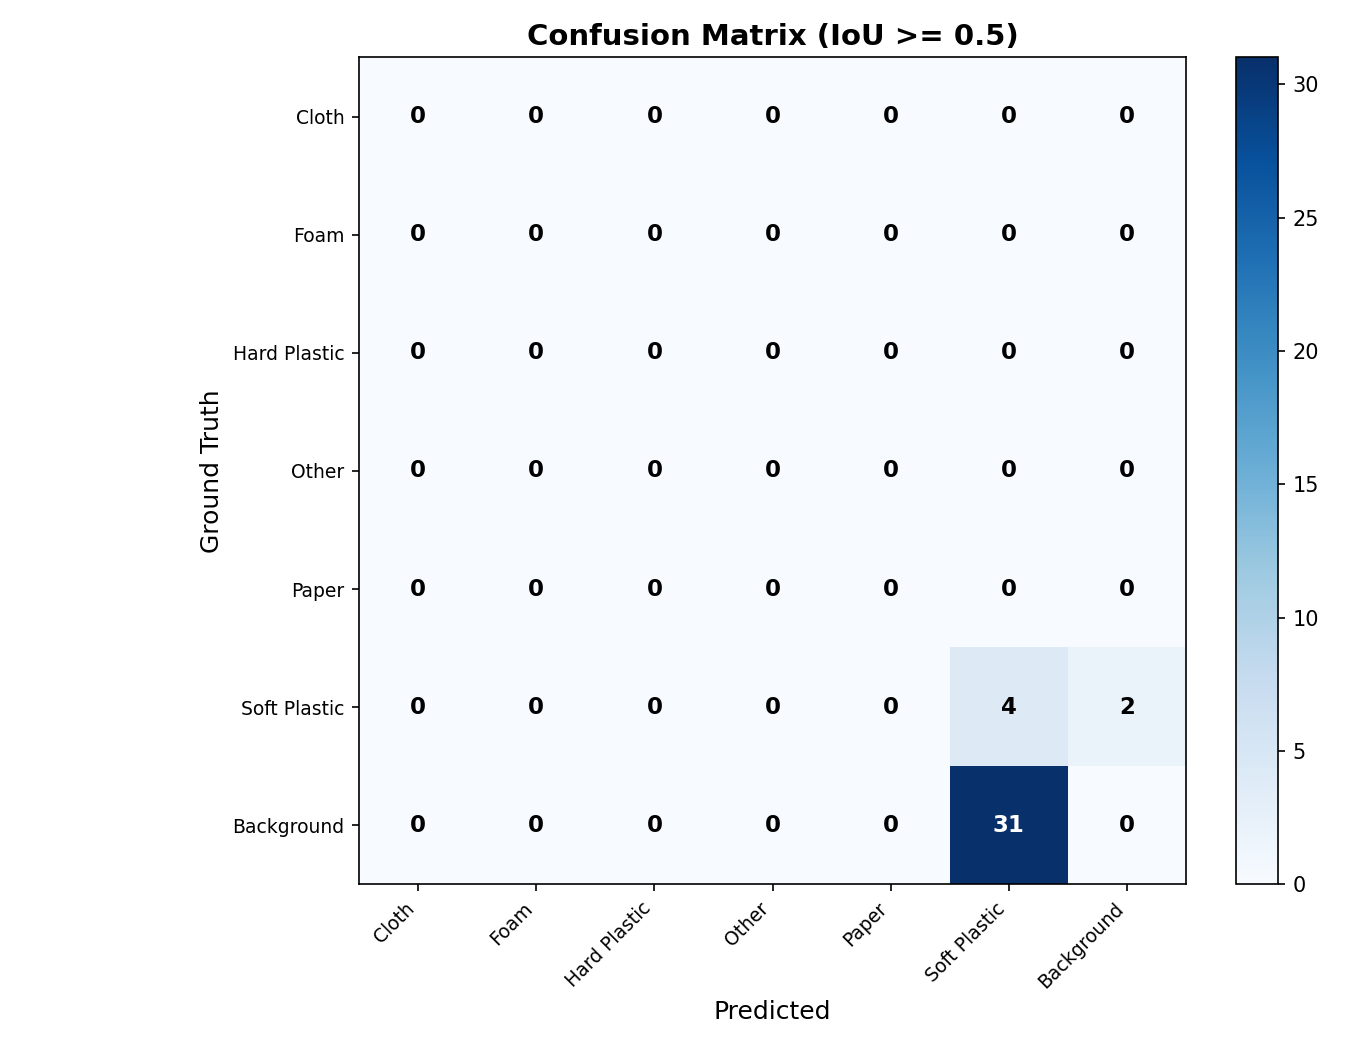
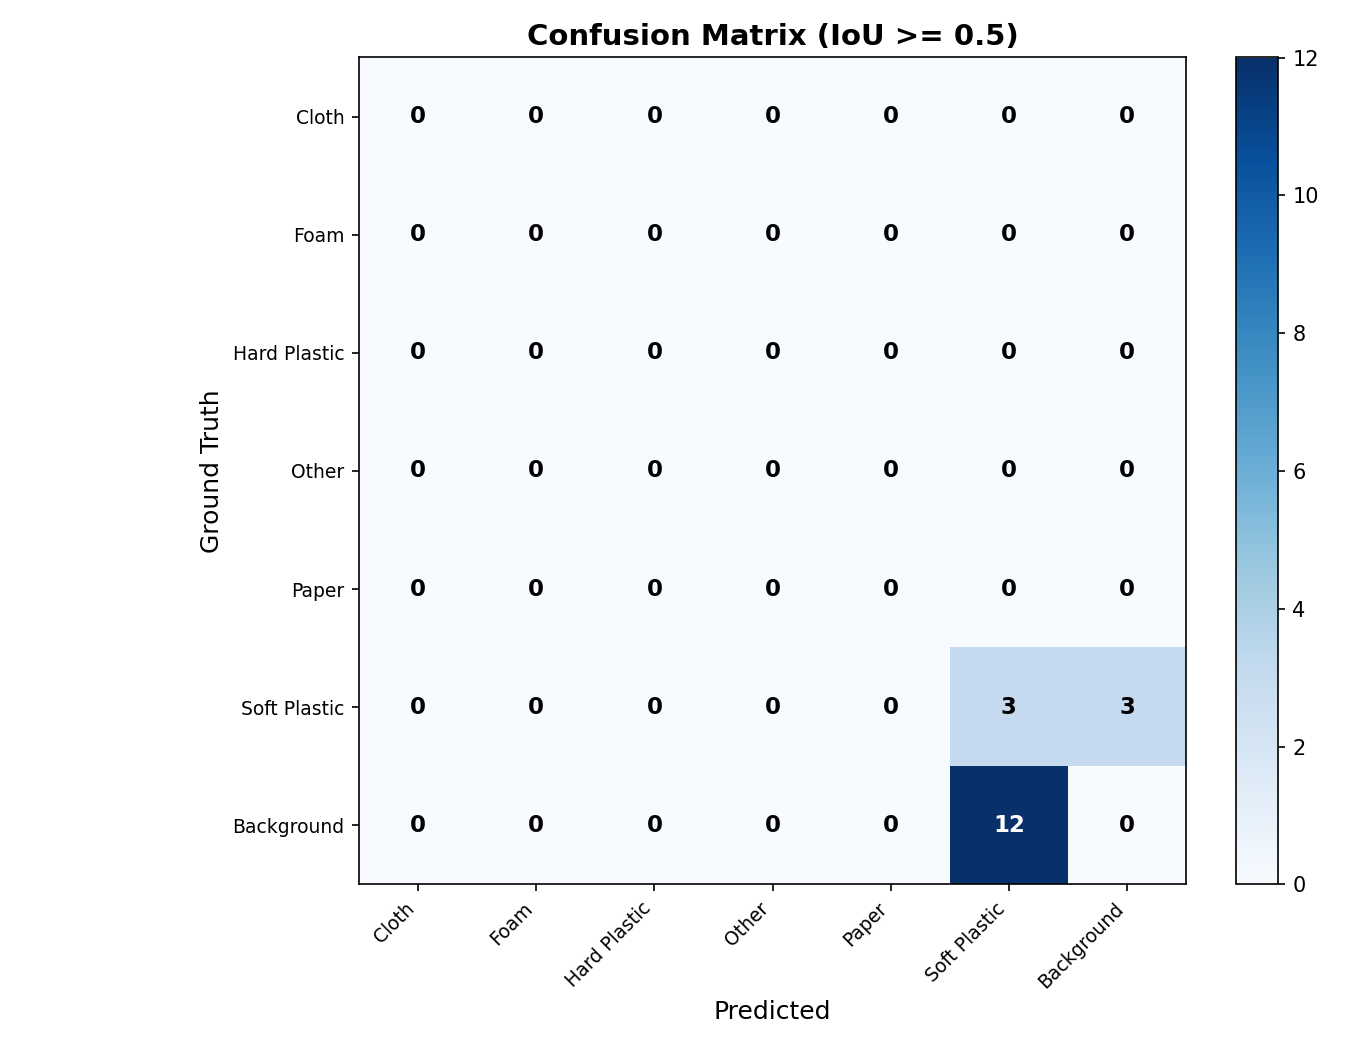
plot training data, check data, n adjust train.py code

diff --git a/plot_training.py b/plot_training.py
@@ -1,0 +1,189 @@
+"""
+plot_training.py
+Membuat grafik evaluasi training dari training_log.csv
+Hasil disimpan ke folder checkpoints/plots/
+"""
+
+import os
+import csv
+import matplotlib.pyplot as plt
+import matplotlib.gridspec as gridspec
+import numpy as np
+
+# ── Konfigurasi ──────────────────────────────────────────────────────────────
+LOG_PATH    = 'checkpoints/training_log.csv'
+OUTPUT_DIR  = 'checkpoints/plots'
+os.makedirs(OUTPUT_DIR, exist_ok=True)
+
+# ── Load data ─────────────────────────────────────────────────────────────────
+epochs, train_losses, val_losses, lrs = [], [], [], []
+
+with open(LOG_PATH, newline='') as f:
+    reader = csv.DictReader(f)
+    for row in reader:
+        epochs.append(int(row['epoch']))
+        train_losses.append(float(row['train_loss']))
+        val_losses.append(float(row['val_loss']))
+        lrs.append(float(row['lr']))
+
+epochs       = np.array(epochs)
+train_losses = np.array(train_losses)
+val_losses   = np.array(val_losses)
+lrs          = np.array(lrs)
+
+best_epoch    = epochs[np.argmin(val_losses)]
+best_val_loss = np.min(val_losses)
+
+# ── Style ─────────────────────────────────────────────────────────────────────
+plt.rcParams.update({
+    'font.family'     : 'DejaVu Sans',
+    'font.size'       : 11,
+    'axes.spines.top' : False,
+    'axes.spines.right': False,
+    'axes.grid'       : True,
+    'grid.alpha'      : 0.3,
+    'grid.linestyle'  : '--',
+})
+
+COLORS = {
+    'train' : '#4A90D9',
+    'val'   : '#E8724A',
+    'best'  : '#2ECC71',
+    'lr'    : '#9B59B6',
+    'gap'   : '#F5A623',
+}
+
+# ═══════════════════════════════════════════════════════════════════════════════
+# GRAFIK 1 — Training vs Validation Loss
+# ═══════════════════════════════════════════════════════════════════════════════
+fig, ax = plt.subplots(figsize=(10, 5))
+
+ax.plot(epochs, train_losses, color=COLORS['train'], lw=2.2, marker='o',
+        markersize=5, label='Train Loss')
+ax.plot(epochs, val_losses,   color=COLORS['val'],   lw=2.2, marker='s',
+        markersize=5, label='Validation Loss')
+
+# Highlight best
+ax.axvline(best_epoch, color=COLORS['best'], ls='--', lw=1.5,
+           label=f'Best Epoch ({best_epoch})  val_loss={best_val_loss:.4f}')
+ax.scatter([best_epoch], [best_val_loss], color=COLORS['best'], zorder=5, s=80)
+
+ax.set_xlabel('Epoch', fontsize=12)
+ax.set_ylabel('Loss', fontsize=12)
+ax.set_title('Training vs Validation Loss (Mask R-CNN)', fontsize=14, fontweight='bold')
+ax.legend(fontsize=10)
+ax.set_xlim(epochs[0] - 0.5, epochs[-1] + 0.5)
+
+plt.tight_layout()
+out1 = os.path.join(OUTPUT_DIR, '1_train_val_loss.png')
+plt.savefig(out1, dpi=150)
+plt.close()
+print(f'[OK] Disimpan: {out1}')
+
+
+# ═══════════════════════════════════════════════════════════════════════════════
+# GRAFIK 2 — Overfitting Gap (Val Loss − Train Loss)
+# ═══════════════════════════════════════════════════════════════════════════════
+gap = val_losses - train_losses
+
+fig, ax = plt.subplots(figsize=(10, 4))
+ax.bar(epochs, gap, color=np.where(gap > 0, COLORS['gap'], COLORS['train']),
+       alpha=0.8, edgecolor='white')
+ax.axhline(0, color='black', lw=1)
+ax.set_xlabel('Epoch', fontsize=12)
+ax.set_ylabel('Val Loss − Train Loss', fontsize=12)
+ax.set_title('Generalization Gap per Epoch', fontsize=14, fontweight='bold')
+ax.set_xlim(0.3, epochs[-1] + 0.7)
+
+note = ("Bar positif (oranye) = model mulai overfit\n"
+        "Bar negatif (biru) = model masih generalizing")
+ax.text(0.99, 0.97, note, transform=ax.transAxes, fontsize=9,
+        va='top', ha='right', bbox=dict(boxstyle='round,pad=0.4',
+        facecolor='lightyellow', alpha=0.8))
+
+plt.tight_layout()
+out2 = os.path.join(OUTPUT_DIR, '2_generalization_gap.png')
+plt.savefig(out2, dpi=150)
+plt.close()
+print(f'[OK] Disimpan: {out2}')
+
+
+# ═══════════════════════════════════════════════════════════════════════════════
+# GRAFIK 3 — Learning Rate Schedule
+# ═══════════════════════════════════════════════════════════════════════════════
+fig, ax = plt.subplots(figsize=(10, 3.5))
+ax.step(epochs, lrs, color=COLORS['lr'], lw=2.2, where='mid', label='Learning Rate')
+ax.fill_between(epochs, lrs, step='mid', alpha=0.15, color=COLORS['lr'])
+ax.set_xlabel('Epoch', fontsize=12)
+ax.set_ylabel('Learning Rate', fontsize=12)
+ax.set_title('Learning Rate Schedule', fontsize=14, fontweight='bold')
+ax.set_xlim(epochs[0] - 0.5, epochs[-1] + 0.5)
+ax.ticklabel_format(style='sci', axis='y', scilimits=(0, 0))
+ax.legend(fontsize=10)
+
+plt.tight_layout()
+out3 = os.path.join(OUTPUT_DIR, '3_lr_schedule.png')
+plt.savefig(out3, dpi=150)
+plt.close()
+print(f'[OK] Disimpan: {out3}')
+
+
+# ═══════════════════════════════════════════════════════════════════════════════
+# GRAFIK 4 — Dashboard gabungan (siap paste ke laporan)
+# ═══════════════════════════════════════════════════════════════════════════════
+fig = plt.figure(figsize=(14, 9))
+gs  = gridspec.GridSpec(2, 2, figure=fig, hspace=0.42, wspace=0.35)
+
+# -- Panel A: train vs val loss
+ax0 = fig.add_subplot(gs[0, :])
+ax0.plot(epochs, train_losses, color=COLORS['train'], lw=2.2, marker='o',
+         markersize=5, label='Train Loss')
+ax0.plot(epochs, val_losses,   color=COLORS['val'],   lw=2.2, marker='s',
+         markersize=5, label='Validation Loss')
+ax0.axvline(best_epoch, color=COLORS['best'], ls='--', lw=1.5,
+            label=f'Best Epoch {best_epoch}  (val={best_val_loss:.4f})')
+ax0.scatter([best_epoch], [best_val_loss], color=COLORS['best'], zorder=5, s=80)
+ax0.set_title('(A) Training vs Validation Loss', fontweight='bold')
+ax0.set_xlabel('Epoch'); ax0.set_ylabel('Loss')
+ax0.legend(fontsize=9)
+ax0.set_xlim(epochs[0] - 0.5, epochs[-1] + 0.5)
+ax0.grid(True, alpha=0.3, ls='--')
+
+# -- Panel B: Generalization Gap
+ax1 = fig.add_subplot(gs[1, 0])
+ax1.bar(epochs, gap, color=np.where(gap > 0, COLORS['gap'], COLORS['train']),
+        alpha=0.85, edgecolor='white')
+ax1.axhline(0, color='black', lw=1)
+ax1.set_title('(B) Generalization Gap', fontweight='bold')
+ax1.set_xlabel('Epoch'); ax1.set_ylabel('Val − Train Loss')
+ax1.set_xlim(0.3, epochs[-1] + 0.7)
+ax1.grid(True, alpha=0.3, ls='--')
+
+# -- Panel C: LR
+ax2 = fig.add_subplot(gs[1, 1])
+ax2.step(epochs, lrs, color=COLORS['lr'], lw=2.2, where='mid')
+ax2.fill_between(epochs, lrs, step='mid', alpha=0.15, color=COLORS['lr'])
+ax2.set_title('(C) Learning Rate Schedule', fontweight='bold')
+ax2.set_xlabel('Epoch'); ax2.set_ylabel('LR')
+ax2.set_xlim(epochs[0] - 0.5, epochs[-1] + 0.5)
+ax2.ticklabel_format(style='sci', axis='y', scilimits=(0, 0))
+ax2.grid(True, alpha=0.3, ls='--')
+
+fig.suptitle('Evaluasi Training Mask R-CNN — Deteksi Sampah Plastik',
+             fontsize=15, fontweight='bold', y=1.01)
+
+out4 = os.path.join(OUTPUT_DIR, '4_dashboard.png')
+plt.savefig(out4, dpi=150, bbox_inches='tight')
+plt.close()
+print(f'[OK] Disimpan: {out4}')
+
+# ── Ringkasan ─────────────────────────────────────────────────────────────────
+print('\n========== RINGKASAN TRAINING ==========')
+print(f'Total epoch berjalan : {len(epochs)}')
+print(f'Best epoch           : {best_epoch}')
+print(f'Best val loss        : {best_val_loss:.4f}')
+print(f'Final train loss     : {train_losses[-1]:.4f}')
+print(f'Final val loss       : {val_losses[-1]:.4f}')
+print(f'Final LR             : {lrs[-1]:.6f}')
+print(f'\nGrafik disimpan di   : checkpoints/plots/')
+print('=========================================')

diff --git a/check_data.py b/check_data.py
@@ -1,0 +1,60 @@
+import json
+import os
+
+base_data_dir = 'c:\\Folder Janu\\Assignment\\CODE\\skripsiau\\data'
+splits = ['train', 'valid', 'test']
+
+for split in splits:
+    print(f"=== Memeriksa dataset: {split.upper()} ===")
+    ann_file = os.path.join(base_data_dir, split, '_annotations.coco.json')
+    
+    if not os.path.exists(ann_file):
+        print(f"File anotasi tidak ditemukan: {ann_file}\n")
+        continue
+
+    with open(ann_file, 'r') as f:
+        data = json.load(f)
+
+    images = data.get('images', [])
+    annotations = data.get('annotations', [])
+
+    # Buat pemetaan (mapping) ID gambar ke daftar anotasinya
+    img_id_to_anns = {img['id']: [] for img in images}
+    for ann in annotations:
+        img_id_to_anns[ann['image_id']].append(ann)
+
+    unlabeled_images = []
+    null_bbox_anns = []
+    null_segmentation_anns = []
+
+    # Cek gambar mana saja yang tidak punya anotasi (unlabeled)
+    for img in images:
+        if len(img_id_to_anns[img['id']]) == 0:
+            unlabeled_images.append(img['file_name'])
+
+    # Cek apakah ada anotasi yang format datanya corrupt/null
+    for ann in annotations:
+        # Cek kelengkapan bbox (harus [x, y, w, h])
+        if 'bbox' not in ann or ann['bbox'] is None or len(ann['bbox']) != 4:
+            null_bbox_anns.append(ann['id'])
+        
+        # Cek kelengkapan koordinat segmentasi polygon
+        if 'segmentation' not in ann or ann['segmentation'] is None or len(ann['segmentation']) == 0:
+            null_segmentation_anns.append(ann['id'])
+
+    print(f"Total images: {len(images)}")
+    print(f"Total annotations: {len(annotations)}")
+    print(f"Images without annotations (unlabeled): {len(unlabeled_images)}")
+    print(f"Annotations with invalid bbox: {len(null_bbox_anns)}")
+    print(f"Annotations with invalid segmentation: {len(null_segmentation_anns)}")
+
+    if len(unlabeled_images) > 0:
+        print(f"Example unlabeled images: {unlabeled_images[:3]}")
+        
+    if len(null_bbox_anns) > 0:
+        print(f"Example invalid bbox annotation IDs: {null_bbox_anns[:3]}")
+
+    if len(null_segmentation_anns) > 0:
+        print(f"Example invalid segmentation annotation IDs: {null_segmentation_anns[:3]}")
+        
+    print("\n")

diff --git a/train.py b/train.py
@@ -126,7 +126,6 @@ def main():
     epochs_no_improve = 0
     patience = 10
 
-    # ── Training Loop ─────────────────────────────────────────────
     for epoch in range(1, CONFIG['num_epochs'] + 1):
         # 1. Training
         train_loss = train_one_epoch(model, optimizer, train_loader, device, epoch)
@@ -148,10 +147,10 @@ def main():
             best_val_loss = val_loss
             epochs_no_improve = 0
             torch.save(model.state_dict(), os.path.join(CONFIG['save_dir'], 'best_model.pth'))
-            print(f'  → Best model saved! (val_loss={best_val_loss:.4f})')
+            print(f'  -> Best model saved! (val_loss={best_val_loss:.4f})')
         else:
             epochs_no_improve += 1
-            print(f'  → Early stopping counter: {epochs_no_improve}/{patience}')
+            print(f'  -> Early stopping counter: {epochs_no_improve}/{patience}')
 
         # Simpan model terakhir
         torch.save(model.state_dict(), os.path.join(CONFIG['save_dir'], 'last_model.pth'))
